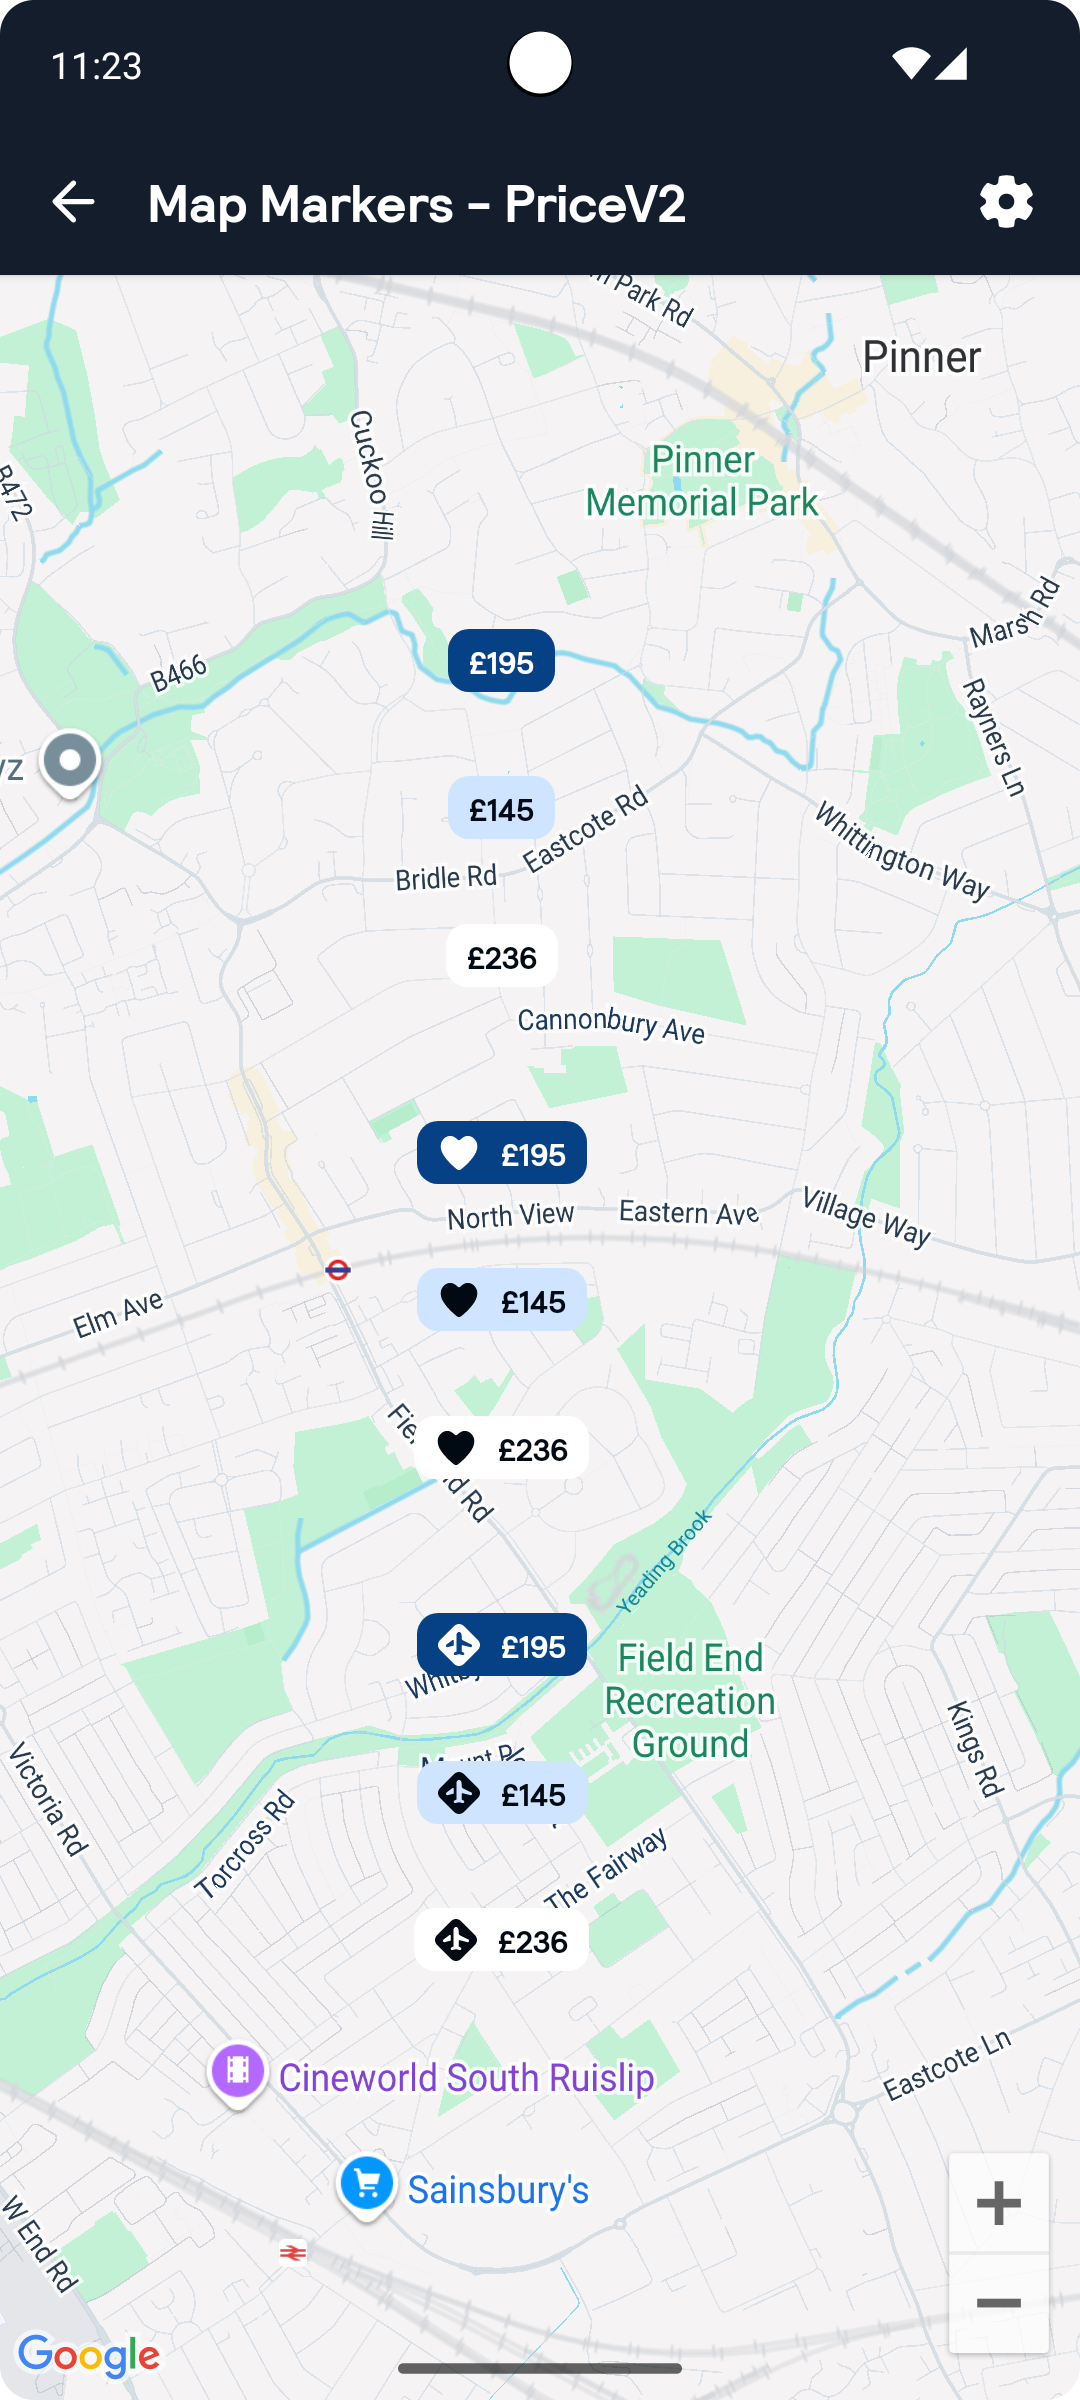
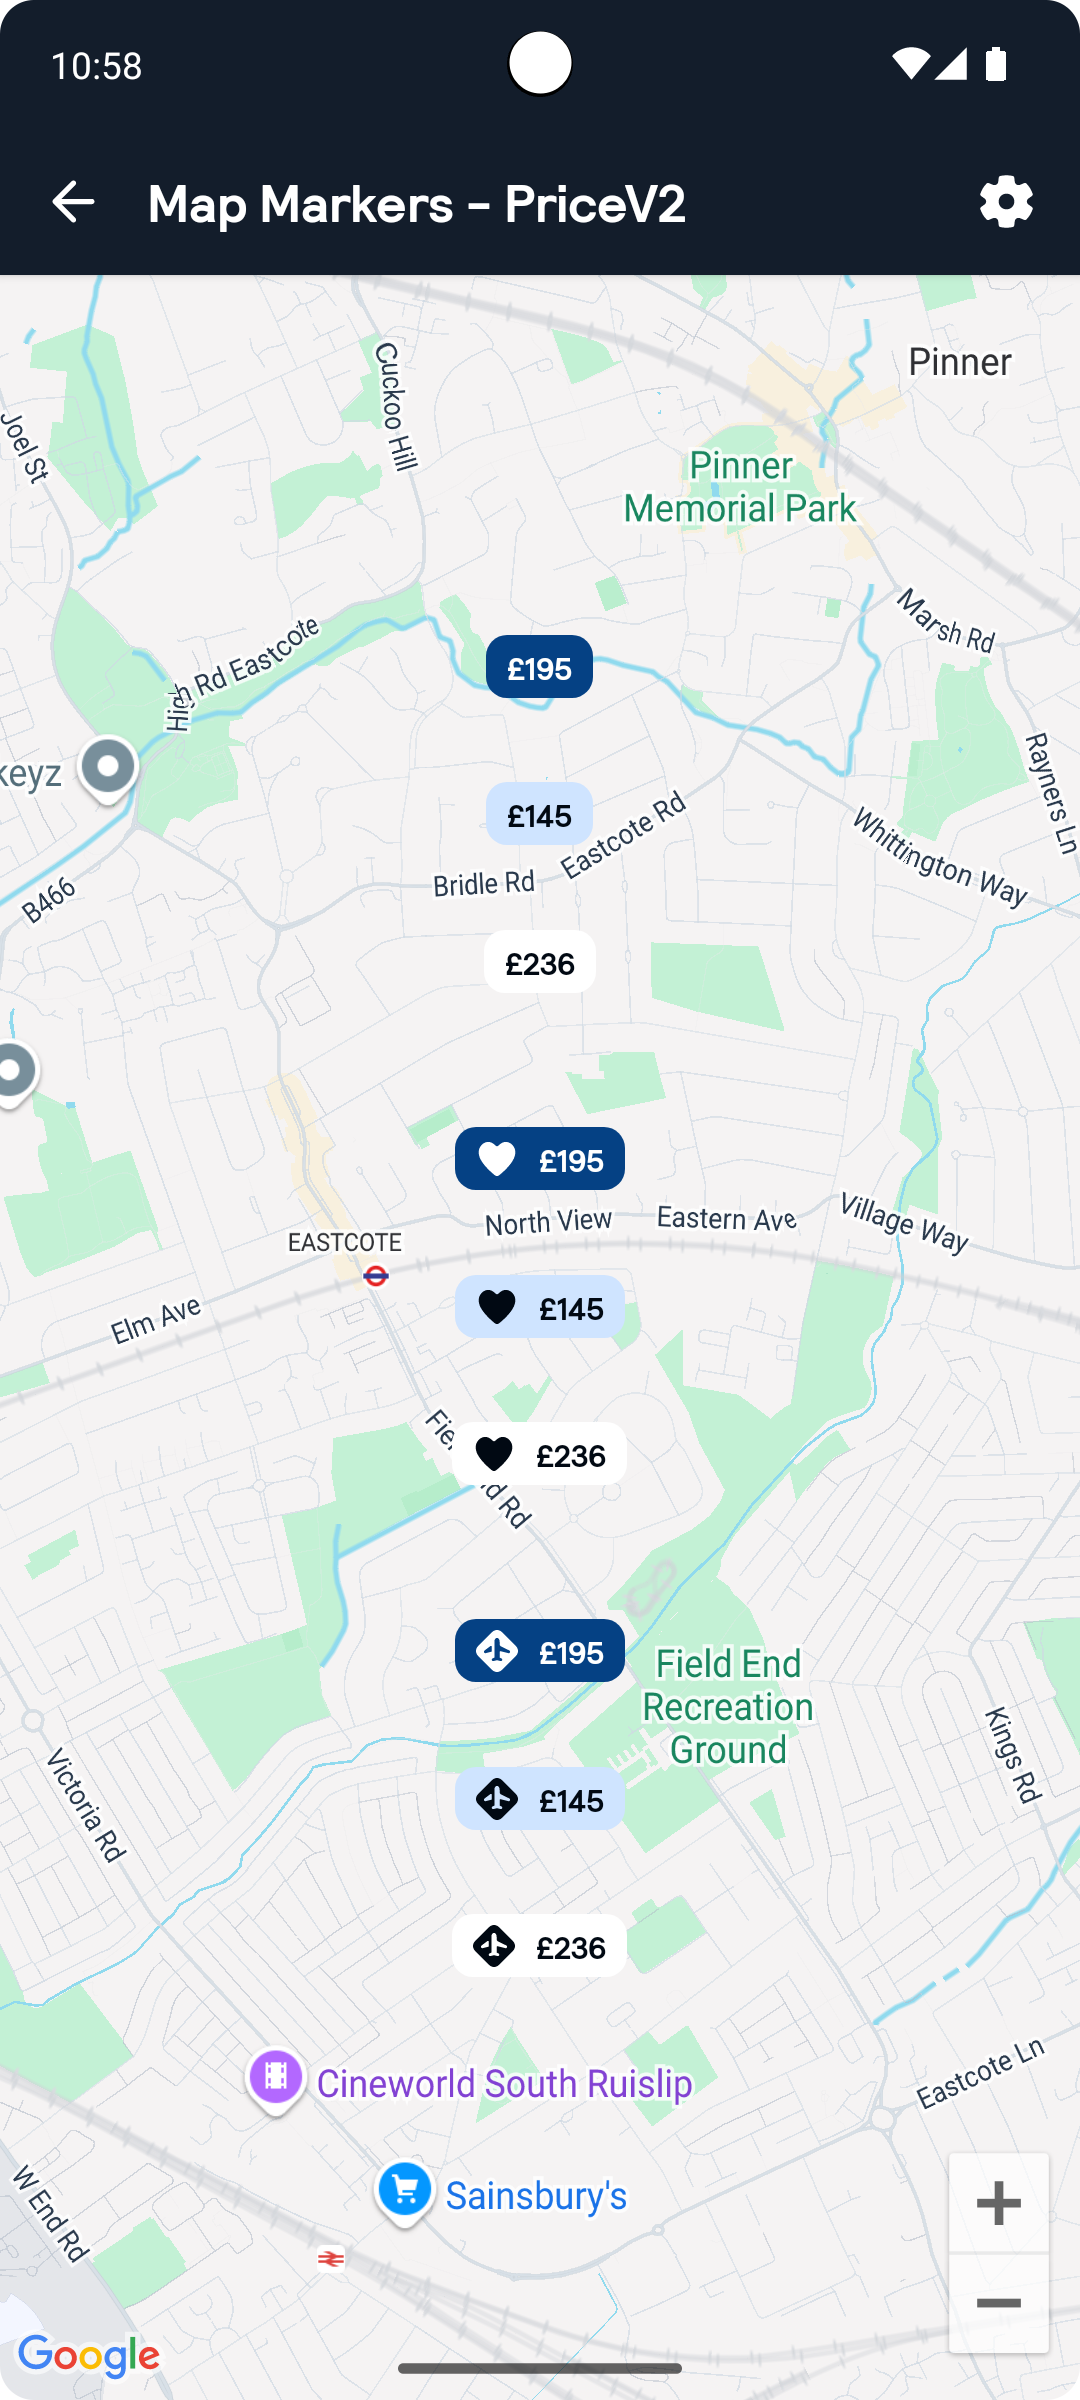
PAN-4378: Fix price map marker status change issue.

diff --git a/app/src/main/java/net/skyscanner/backpack/demo/compose/MapStory.kt b/app/src/main/java/net/skyscanner/backpack/demo/compose/MapStory.kt
@@ -21,6 +21,7 @@ package net.skyscanner.backpack.demo.compose
 import androidx.compose.runtime.Composable
 import androidx.compose.runtime.getValue
 import androidx.compose.runtime.mutableIntStateOf
+import androidx.compose.runtime.mutableStateListOf
 import androidx.compose.runtime.mutableStateOf
 import androidx.compose.runtime.remember
 import androidx.compose.runtime.setValue
@@ -90,13 +91,18 @@ fun PriceMapMarkerStory(modifier: Modifier = Modifier) {
 @MapMarkersComponent
 @ComposeStory(kind = StoryKind.DemoOnly, name = "PriceV2")
 fun PriceMapMarkerV2Story(modifier: Modifier = Modifier) {
-    var focusedMarker by remember { mutableIntStateOf(0) }
-    var previousSelectedMarker by remember { mutableIntStateOf(1) }
-
-    fun markerStatus(index: Int): BpkPriceMarkerV2Status = when (index) {
-        focusedMarker -> BpkPriceMarkerV2Status.Selected
-        previousSelectedMarker -> BpkPriceMarkerV2Status.PreviousSelected
-        else -> BpkPriceMarkerV2Status.Unselected
+    val markerStatuses = remember {
+        mutableStateListOf(
+            BpkPriceMarkerV2Status.Selected,
+            BpkPriceMarkerV2Status.PreviousSelected,
+            BpkPriceMarkerV2Status.Unselected,
+            BpkPriceMarkerV2Status.Selected,
+            BpkPriceMarkerV2Status.PreviousSelected,
+            BpkPriceMarkerV2Status.Unselected,
+            BpkPriceMarkerV2Status.Selected,
+            BpkPriceMarkerV2Status.PreviousSelected,
+            BpkPriceMarkerV2Status.Unselected,
+        )
     }
 
     val markerPositions = listOf(
@@ -120,17 +126,32 @@ fun PriceMapMarkerV2Story(modifier: Modifier = Modifier) {
         BpkIcon.Airports,
     )
 
+    val cameraPositionState = rememberCameraPositionState().apply {
+        position = CameraPosition.fromLatLngZoom(
+            LatLng(51.575308, -0.391776),
+            14f,
+        )
+    }
+
     GoogleMap(
         modifier = modifier,
-        cameraPositionState = rememberCameraPositionState { MapPosition },
+        cameraPositionState = cameraPositionState,
         mapColorScheme = ComposeMapColorScheme.FOLLOW_SYSTEM,
     ) {
         markerPositions.forEachIndexed { index, latLng ->
             BpkPriceMapMarkerV2(
                 title = stringArrayResource(R.array.map_marker_prices)[index % 3],
-                status = markerStatus(index % 3),
+                status = markerStatuses[index],
                 state = rememberMarkerState(position = latLng),
-                onClick = { previousSelectedMarker = focusedMarker; focusedMarker = index; false },
+                onClick = {
+                    markerStatuses.forEachIndexed { i, status ->
+                        if (i / 3 == index / 3 && status == BpkPriceMarkerV2Status.Selected) {
+                            markerStatuses[i] = BpkPriceMarkerV2Status.PreviousSelected
+                        }
+                    }
+                    markerStatuses[index] = BpkPriceMarkerV2Status.Selected
+                    false
+                },
                 prefixIcon = markerIcons[index / 3],
             )
         }

diff --git a/backpack-compose/src/main/kotlin/net/skyscanner/backpack/compose/utils/ComposeToBitmap.kt b/backpack-compose/src/main/kotlin/net/skyscanner/backpack/compose/utils/ComposeToBitmap.kt
@@ -23,6 +23,7 @@ import android.view.View
 import android.view.ViewGroup
 import androidx.compose.runtime.Composable
 import androidx.compose.runtime.CompositionContext
+import androidx.compose.runtime.SideEffect
 import androidx.compose.runtime.getValue
 import androidx.compose.runtime.mutableStateOf
 import androidx.compose.runtime.remember
@@ -34,6 +35,7 @@ import androidx.compose.ui.platform.LocalView
 import androidx.core.graphics.applyCanvas
 import com.google.android.gms.maps.model.BitmapDescriptor
 import com.google.android.gms.maps.model.BitmapDescriptorFactory
+import androidx.core.graphics.createBitmap
 
 @Composable
 internal fun rememberCapturedComposeBitmapDescriptor(
@@ -53,9 +55,11 @@ internal fun rememberCapturedComposeBitmap(
     val currentContext = rememberCompositionContext()
     val currentContent by rememberUpdatedState(content)
     var cachedBitmap by remember { mutableStateOf<Bitmap?>(null) }
+    val previousKeys = rememberPrevious(*keys)
 
+    val refreshNeeded = previousKeys == null || previousKeys != keys.toList()
     val newBitmap = remember(parent, currentContext, currentContent, *keys) {
-        renderComposeToBitmap(parent, currentContext, cachedBitmap, currentContent)
+        renderComposeToBitmap(parent, currentContext, cachedBitmap, currentContent, refreshNeeded)
     }
     cachedBitmap = newBitmap
     return cachedBitmap ?: newBitmap
@@ -66,6 +70,7 @@ private fun renderComposeToBitmap(
     compositionContext: CompositionContext,
     cachedBitmap: Bitmap?,
     content: @Composable () -> Unit,
+    refreshNeeded: Boolean,
 ): Bitmap {
 
     val composeView = ComposeView(parent.context)
@@ -84,13 +89,10 @@ private fun renderComposeToBitmap(
 
     val bitmap = when {
         cachedBitmap == null ||
+            refreshNeeded ||
             cachedBitmap.width != composeView.measuredWidth ||
             cachedBitmap.height != composeView.measuredHeight ->
-            Bitmap.createBitmap(
-                composeView.measuredWidth,
-                composeView.measuredHeight,
-                Bitmap.Config.ARGB_8888,
-            )
+            createBitmap(composeView.measuredWidth, composeView.measuredHeight)
 
         else -> cachedBitmap
     }
@@ -102,4 +104,13 @@ private fun renderComposeToBitmap(
     parent.removeView(composeView)
 
     return bitmap
+}
+
+@Composable
+private fun rememberPrevious(vararg keys: Any?): List<Any?>? {
+    val state = remember { mutableStateOf<List<Any?>?>(null) }
+    SideEffect {
+        state.value = keys.toList()
+    }
+    return state.value
 }

diff --git a/backpack-compose/src/main/kotlin/net/skyscanner/backpack/compose/map/BpkPriceMapMarkerV2.kt b/backpack-compose/src/main/kotlin/net/skyscanner/backpack/compose/map/BpkPriceMapMarkerV2.kt
@@ -18,6 +18,7 @@
 
 package net.skyscanner.backpack.compose.map
 
+import android.util.Log
 import androidx.annotation.RestrictTo
 import androidx.compose.foundation.background
 import androidx.compose.foundation.layout.Arrangement
@@ -62,7 +63,8 @@ fun BpkPriceMapMarkerV2(
     onClick: (Marker) -> Boolean = { false },
     prefixIcon: BpkIcon? = null,
 ) {
-    val icon = rememberCapturedComposeBitmapDescriptor(title, status) {
+    val icon = rememberCapturedComposeBitmapDescriptor(title, status.name) {
+        Log.d("MarkerDebug", "Recomputing bitmap for $title ${status.name}")
         PriceMarkerV2Layout(title = title, status = status, prefixIcon = prefixIcon)
     }
 
